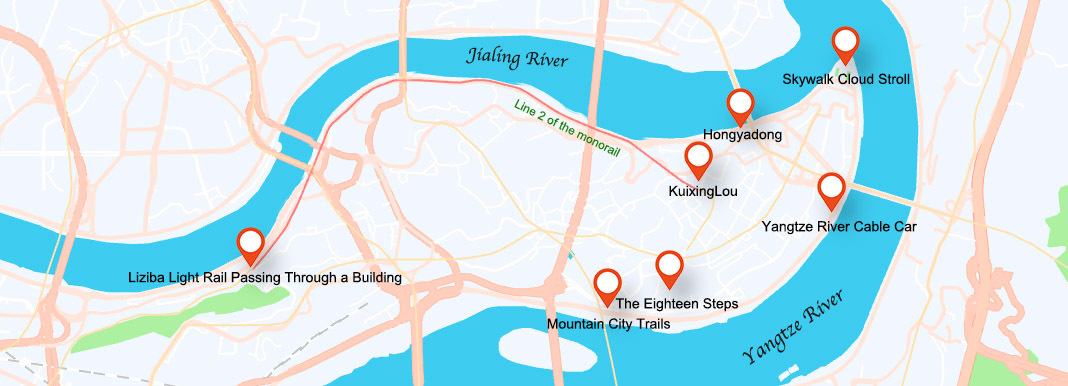
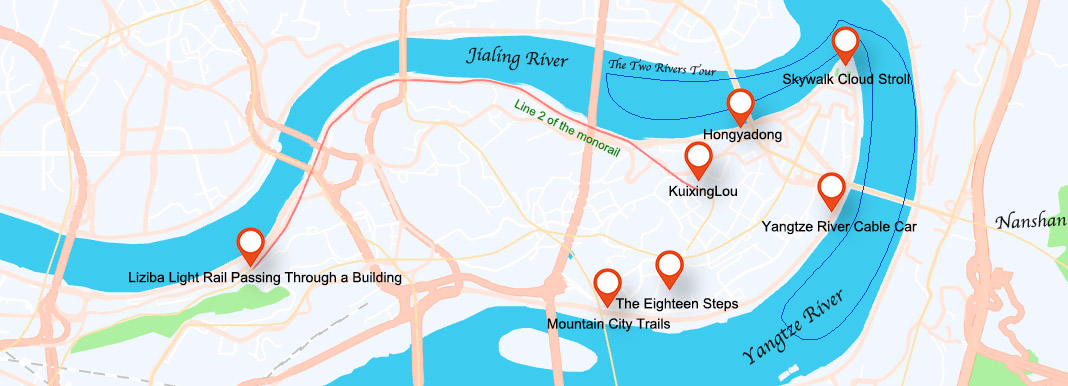
docs: chongqing

Changed region(s): [[0.5562, 0.1554, 0.6798, 0.2176], [0.927, 0.5596, 1.0, 0.5907]]

diff --git a/docs/en/chongqing/cityscape.md b/docs/en/chongqing/cityscape.md
@@ -242,9 +242,14 @@ The Two Rivers Tour
 <div><i>Crowd Level</i><b>Quiet</b></div>
 <div><i>Ticket Price</i><b><CNY>98</CNY> to <CNY>258</CNY></b></div>
 <div><i>Recommendation</i><b>Recommended</b></div>
+<div><i>Location</i><b>Chao Tian Men Wharf (near Raffles City)</b></div>
 </Description>
 
 The Two Rivers Tour usually passes by some famous landmarks, such as Chaotianmen, Hongyadong, and Nanbin Road. The night tour of the two rivers is particularly charming because when night falls, the lights on both banks shine brilliantly, presenting another kind of beauty to the entire city.
+
+The sightseeing cruise departs from Chao Tian Men Wharf, proceeds to the Huanghuayuan Bridge, makes a turn at the confluence of the two rivers, then heads to near the Sheraton Hotel before returning to Chao Tian Men Wharf. The voyage is approximately 20 kilometers, and the tour duration is about 60 minutes.
+
+![One Day Urban Tour](./assets/chongqing-one-day.jpg)
 
 <YouTube link="https://youtu.be/hCgd58A-tFU?si=j-uNzN0_0qhQfxFK&t=997">
 <template #cover><img src="../assets/youtube/inside-chinas-monster-city.jpg" alt="INSIDE CHINA’S MONSTER CITY" /></template>
